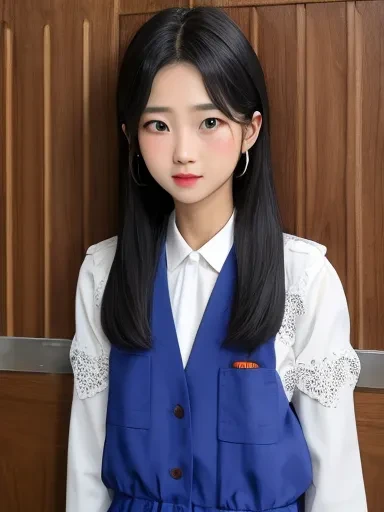
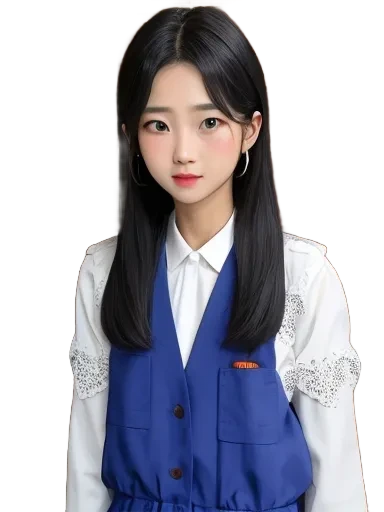
fix: 초상화 투명 배경 수정 + 캐릭터 일관성 규칙
- Remover(mode="fast") → Remover(fast=True) 버그 수정 (배경 제거가 전혀 동작 안 했음)
- numpy array → PIL Image 변환 추가
- 기존 초상화(미라, 할란) 배경 제거 적용
- CLAUDE.md: 캐릭터 외형 일관성 규칙, 파일 명명 규칙 추가

diff --git a/sd_generator.py b/sd_generator.py
@@ -133,10 +133,24 @@ def _generate_worker(illustration_type, prompt, negative_prompt, turn_count, pos
                 # Remove background for compositing on any scene
                 try:
                     from transparent_background import Remover
-                    remover = Remover(mode="fast")
-                    img = remover.process(img, type="rgba")
+                except ImportError as e:
+                    logger.error(f"transparent-background library import failed: {e}. "
+                                 "Portraits will have opaque backgrounds. "
+                                 "Install with: pip install transparent-background")
+                    Remover = None
+                try:
+                    if Remover is not None:
+                        import numpy as np
+                        remover = Remover(fast=True)
+                        result = remover.process(img, type="rgba")
+                        if isinstance(result, np.ndarray):
+                            img = Image.fromarray(result)
+                        else:
+                            img = result
+                    else:
+                        img = img.convert("RGBA")
                 except Exception as e:
-                    logger.warning(f"Background removal failed, saving as-is: {e}")
+                    logger.warning(f"Background removal processing failed, saving as-is: {e}")
                     img = img.convert("RGBA")
                 img.save(filepath, "WEBP", quality=90)
             else:

diff --git a/CLAUDE.md b/CLAUDE.md
@@ -369,6 +369,29 @@ saves/                    - 세이브 데이터
 - negative prompt에 자동으로 "detailed background, scenery, landscape" 추가됨
 - 프롬프트에 "simple background, solid color background" 포함 권장
 
+### 캐릭터 외형 일관성 규칙
+- **동일 인물은 항상 같은 외형(얼굴, 체형, 의상, 머리색)을 유지해야 한다**
+- 캐릭터별 기준 이미지(reference)를 `static/portraits/sd/` 또는 `static/portraits/pixel/`에 저장
+- 새 장면에서 같은 캐릭터가 등장할 때 기존 이미지를 재활용한다
+- 외형이 변경되는 경우(장비 변경, 부상 등)에만 새 이미지를 생성
+- 동작/포즈만 바꿔야 할 경우: img2img로 기존 이미지를 기반으로 변형
+- **레이어 초상화는 반드시 투명 배경** — 배경이 있는 초상화는 메인 배경을 가림
+- SD 생성 시 transparent-background 라이브러리로 자동 배경 제거
+- 배경 제거 실패 시 로그 경고 + 그대로 저장 (수동 확인 필요)
+
+### 캐릭터 이미지 파일 규칙
+| 용도 | 경로 | 이름 규칙 | 배경 |
+|------|------|----------|------|
+| 기준 이미지 (정면) | portraits/sd/ | portrait_{name}.webp | 투명 |
+| 동작 변형 | portraits/sd/ | portrait_{name}_{action}.webp | 투명 |
+| 프로필 카드용 | portraits/pixel/ | player_{id}.png | 원형 마스크 |
+
+예시:
+- portrait_할란.webp (기본 — 정면)
+- portrait_할란_injured.webp (부상 상태)
+- portrait_미라.webp (기본)
+- portrait_미라_angry.webp (화난 표정)
+
 #### 시나리오 이미지 생성 절차
 1. 시나리오 Agent가 scenario.json 생성 시 전체 스토리 파악
 2. 필요한 이미지 목록 추출: 모든 챕터 배경, 등장 NPC, 주요 오브젝트, 주요 장소
